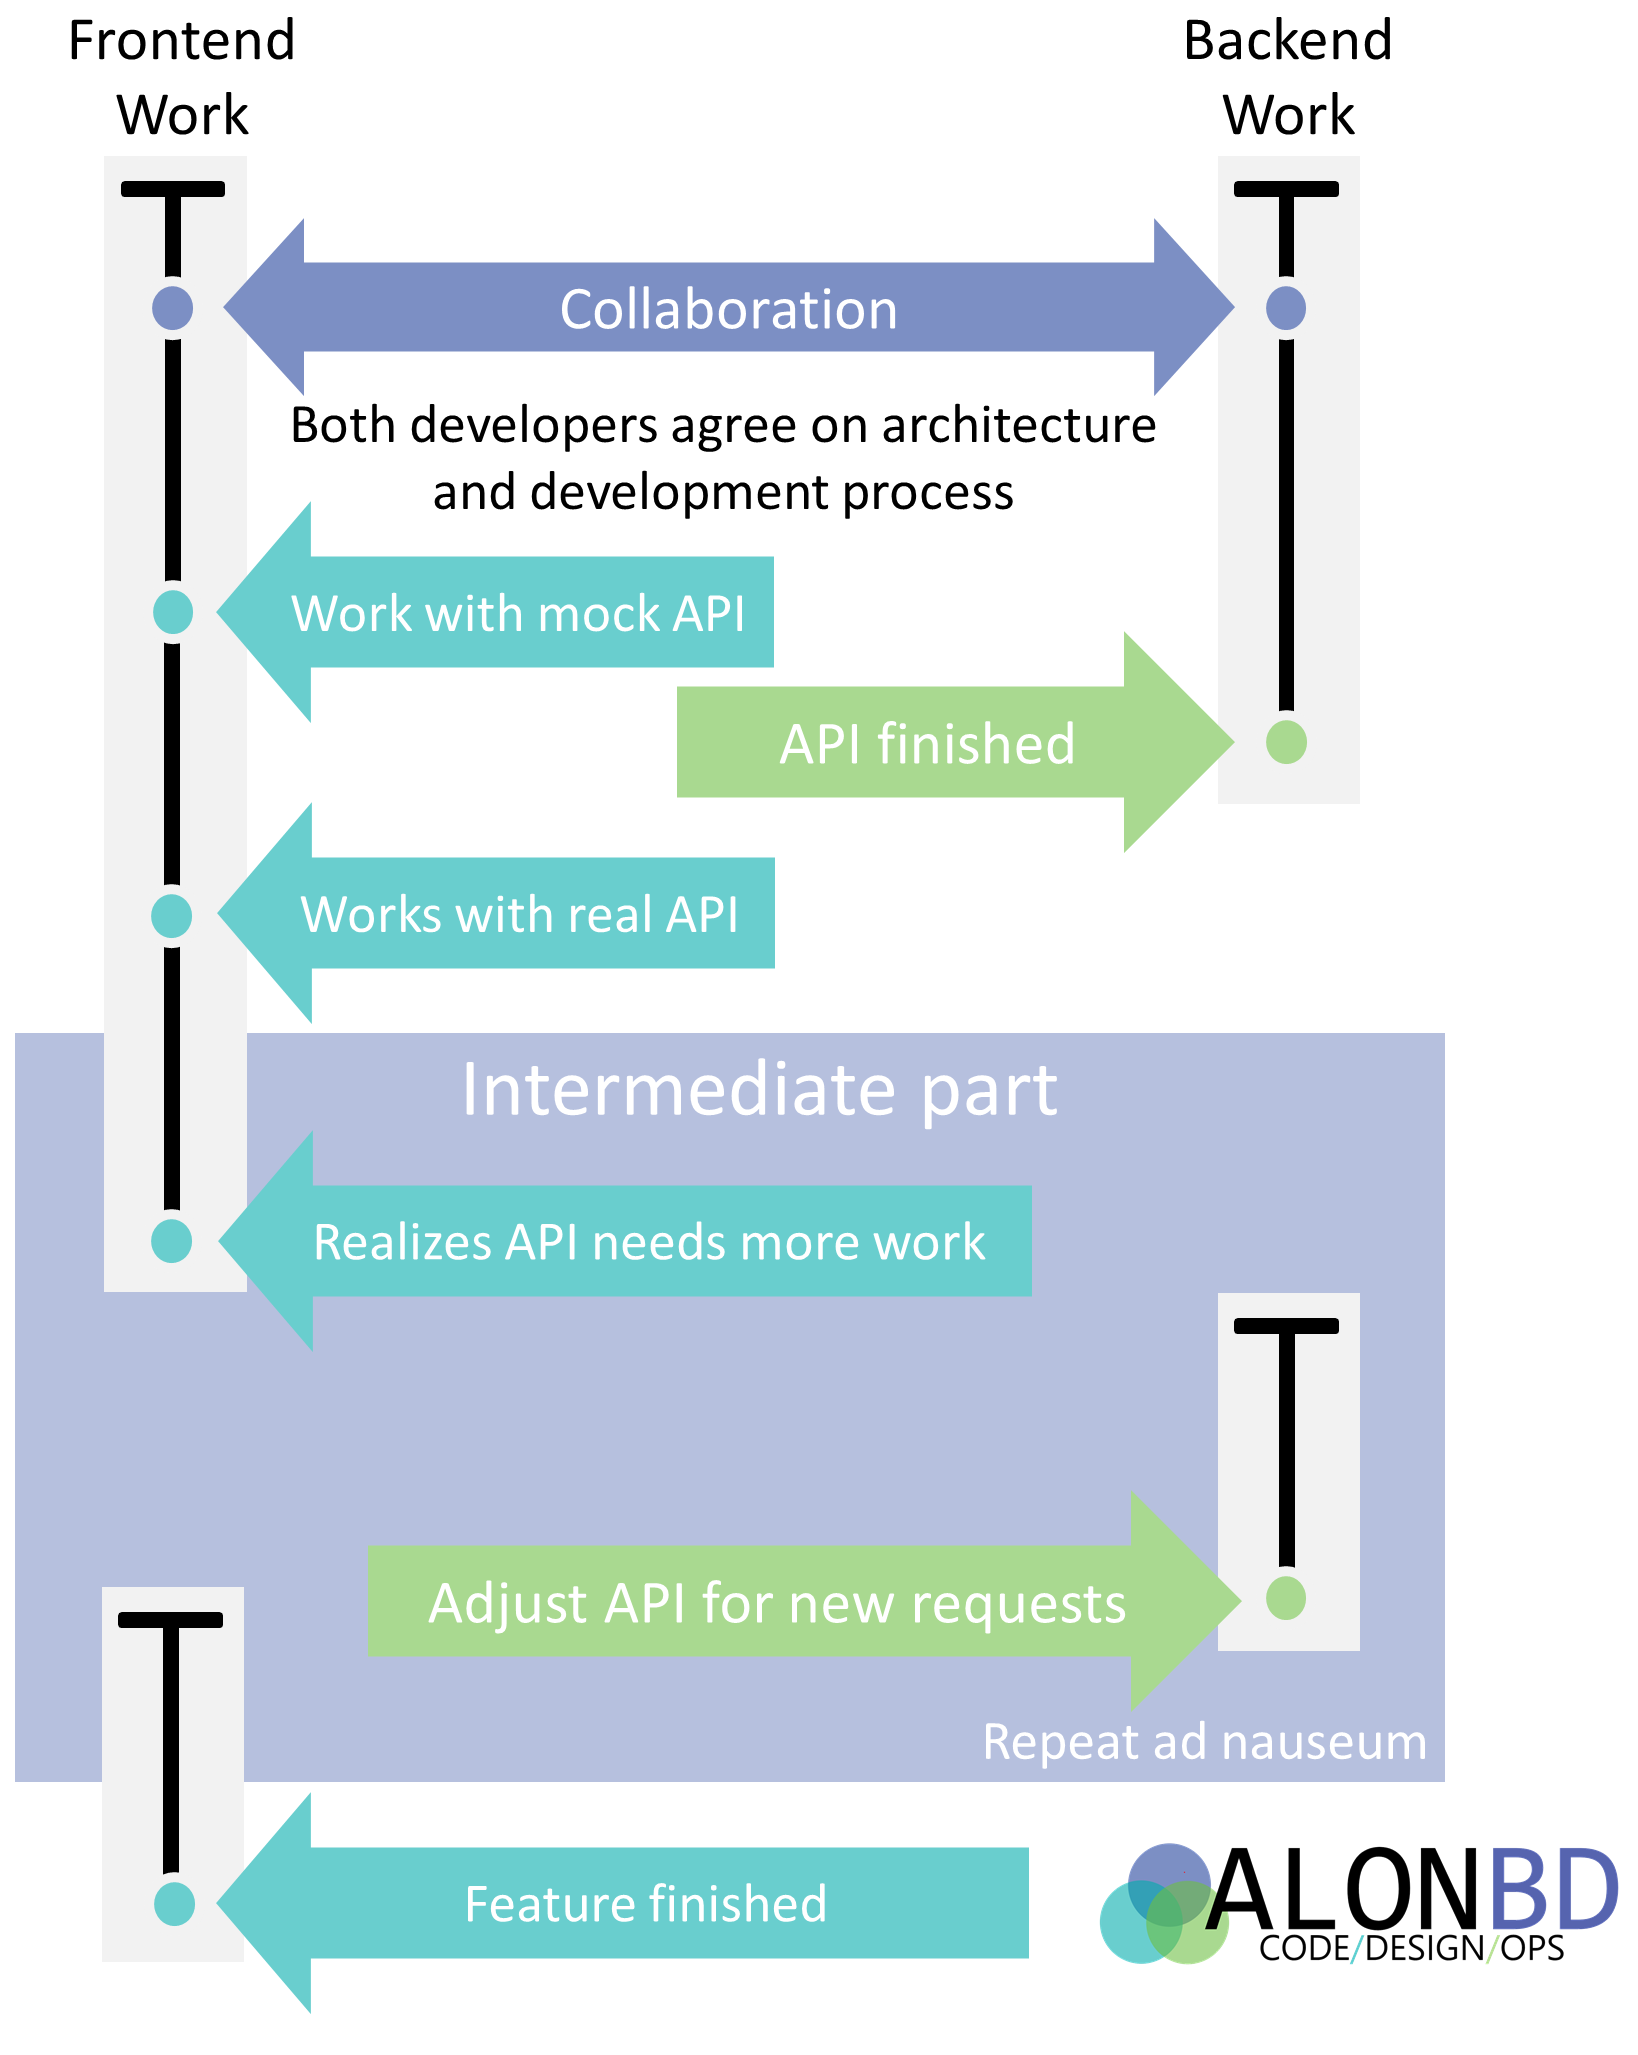
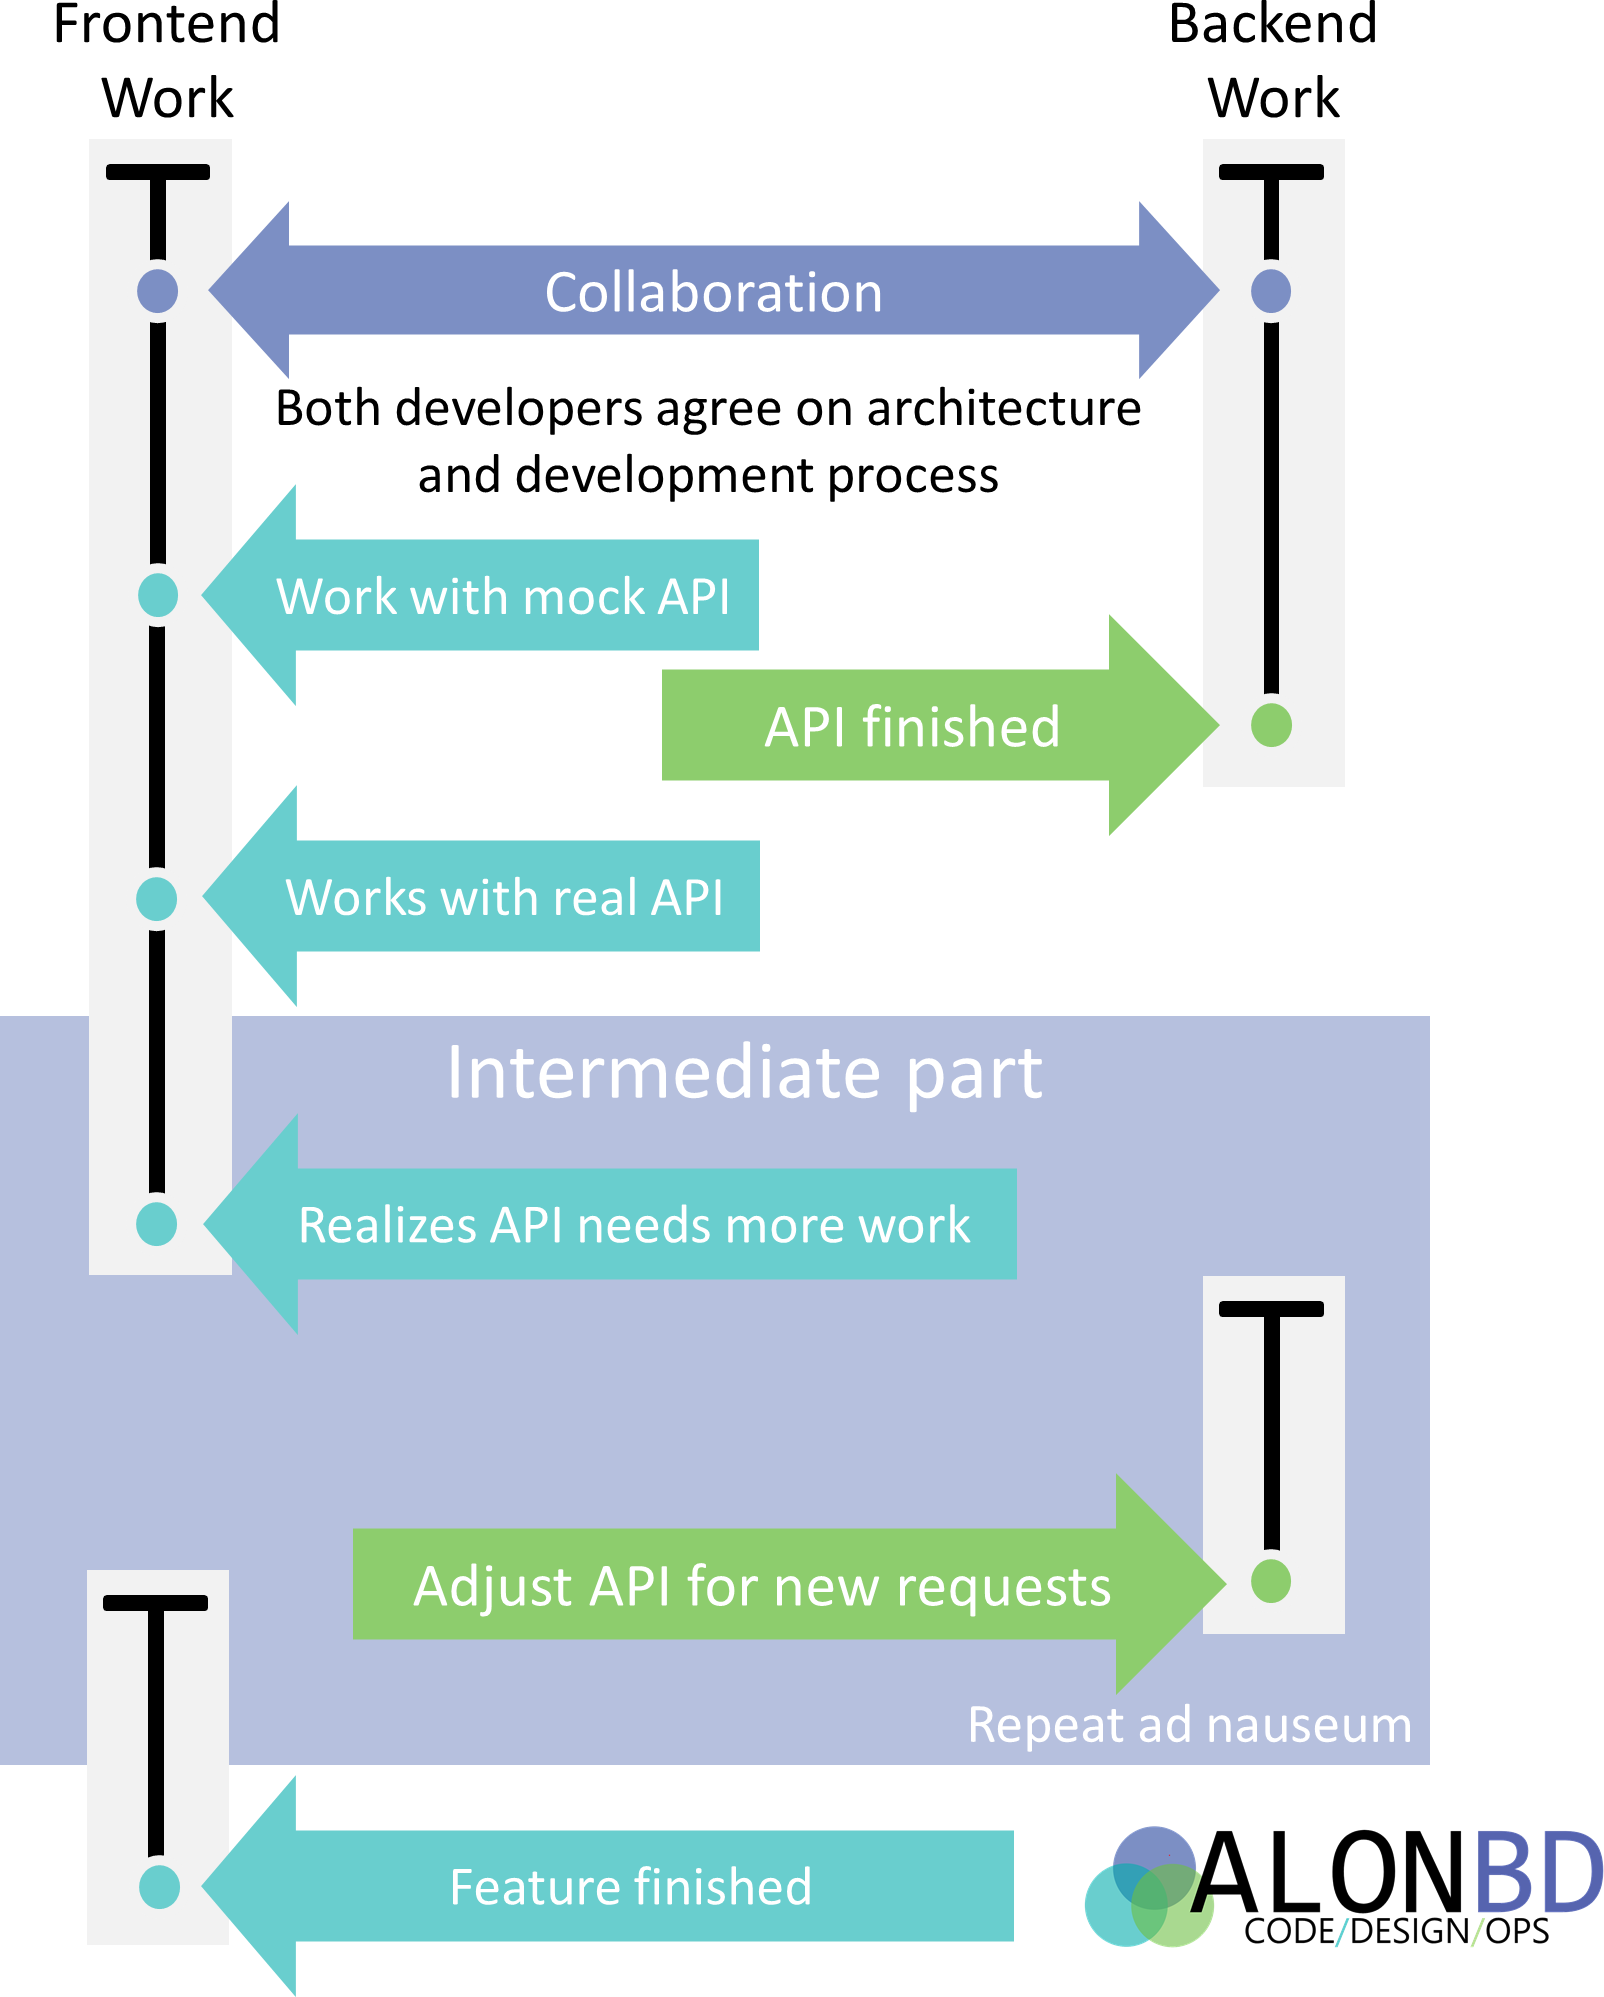
first iteration for fullstack article

Changed region(s): [[0.0, 0.0, 1.0, 1.0], [0.1559, 0.1242, 0.717, 0.2484], [0.1559, 0.0931, 0.187, 0.1242]]

diff --git a/.vuepress/theme/components/Footer.vue b/.vuepress/theme/components/Footer.vue
@@ -6,10 +6,10 @@
                     <img class="avatar" src="/images/avatar.jpg" alt="Alon Bar David"></img>
                 </div>
                 <div >
-                    <h2>HELLO!</h2>
+                    <h2>Hi!</h2>
                     <p>
                         My name is Alon Bar David.<br/>
-                        I'm an independent consultant, web developer, software development enthusiast
+                        I'm an independent consultant, fullstack architect, software development enthusiast
                         and proud father of two.
                     </p>
                 </div>

diff --git a/blog/what-it-means-to-be-fullstack.md b/blog/what-it-means-to-be-fullstack.md
@@ -1,25 +1,31 @@
 ---
 title: What it means to be a Full-Stack developer
-description: 
+description: Why you can also do fullstack development and what are the benefits 
 tags: Full-Stack,fullstack
-createdAt: 2019-09-03
+createdAt: 2019-09-09
 ---
 ## What it means to be a Fullstack Developer  
+<img class="cover" src="./images/what-it-means-to-be-fullstack-cover.png"
+    alt="Tetris bricks making a stack" />
+  
+Lately when I talk about fullstack development a lot of people proclaim
+their skepticism on the subject - saying that fullstack engineers don't
+exist or that most developers, if not all, are only suitable to either
+backend or frontend work.
 
-When I tell people that I'm a fullstack developer I often get responses
-that comes down to either:    
+The criticism mostly boils down to two issues:
+
 * No one can be an expert at both frontend and backend, it's better to
-specialize (Or the less tactful - there's no such thing as fullstack)
-* You might be different, but most people are suitable for either 
-frontend or backend (Or the less tactful - web developers can't do backend)
+  specialize 
+* Most people are only suitable for either frontend or backend work.
 
-Those responses really miss the point.
+These critiques miss the entire point of what fullstack is.
 
 ### Fullstack isn't about code, it's about _ownership_
 
 Fullstack isn't about what languages you know or what technologies you
-mastered, it's about having the tools  and authority to deal with a bug
- or a feature from start to finish. 
+mastered it's about having the tools  and authority to deal with a task
+from start to finish and getting rid of obstructions. 
    
 Splitting a single task into different responsibilities and handing 
 them to different people creates unnecessary detachment, adds superfluous 
@@ -35,21 +41,21 @@ The timeline for development of such a feature often looks like this:
     src="./images/what-it-means-to-be-fullstack-timeline.png" 
     style="width:80%;margin-left: auto;margin-right: auto;display: block;" />
 
-When scope changes or new knowledge about the task comes to light and 
-changes need to be made one developer becomes a bottleneck for the 
-other - preventing continuous work, adding pressure to each side,
-resulting in multiple painful context switches and sometimes lead
-to resentment and conflict.
+When scope changes or new knowledge about the task comes to light 
+adjustments need to be made to the original architecture and one 
+developer becomes a bottleneck for the other - preventing continuous
+work, adding pressure to each side and causing painful context switches
+that can sometimes lead to resentment and conflict.
 
-Because most work is sequential in nature (in this case the frontend
-requires the api to work) until a prerequisite feature is complete 
-one of the developers must wait or rely on workarounds (in this case
-using a mock api).
+Since most work is sequential in nature (in the illustrated example the
+frontend dev requires the api to work) until a prerequisite task is done
+one of the developers must wait or rely on workarounds (in the 
+illustrated case - using a mock api).
  
-And above all many times a difficult problem in one layer has a simple
-solution in a different layer - when a developer is just frontend or 
-just backend, they start seeing solutions to business issues only
-in their own domain.
+And above all - many times a difficult problem in one layer has a simple
+solution in a different layer and when a developer is just frontend or 
+just backend they often become blind to solutions to business issues 
+from outside their own domain.
 
 ### Advantages of doing fullstack development
 
@@ -68,12 +74,12 @@ management easier and provides a sense of responsibility.
 ### Anyone can do Full-Stack
 
 To answer the criticism that not everyone can do fullstack, I'd like to
-point out that what we no consider frontend was backend a few years 
+point out that what we consider frontend was backend a few years 
 ago, especially the hard parts - routing, state management, caching, 
-even business logic is now often part of the frontend.   
+even business logic is now done routinely on the frontend.   
 
 The majority of frontend issues don't require detailed knowledge of 
-design language, ui performance or browser compatibilities - it's usually
+design languages, ui performance or browser compatibilities - it's usually
 just adding a few divs and changing some css values (assuming your client
 is web-based).   
 
@@ -82,29 +88,28 @@ of concurrence models, bytecode manipulation or ORM internals - it's
 usually just adding a new field to the database or api model.
 
 Being fullstack doesn't mean being an expert in all things, it doesn't
-mean doing everything on your own - Owning and developing a feature in
+mean doing everything on your own - owning and developing a feature in
 an area you are less strong at doesn't mean you can't get help, you 
 should definitely ask for guidance and instructions from those who
-are more experienced and specialize in an area.    
+are more experienced and specialize in that area.    
 
 ### You can still specialize while doing Full-Stack
 
 Being fullstack doesn't mean you can't specialize or become an expert
 on a topic.    
-More than that even saying that one can't master both frontend and
+Frankly saying that one can't master both frontend and
 backend implies that if you concentrate on just one layer you can 
 master it - which is absurd, there are so many areas in frontend
-and backend that it's impossible for anyone to be an expert in all
-aspects of development in it.
+and backend that it is impossible for anyone to be an expert in all
+aspects of development in a layer.
 
-You can be a fullstack and be an expert in using graphing libraries.     
-you can be fullstack and be an expert in using ORMs.
+You can be fullstack and be an expert in using graphing libraries.     
+You can be fullstack and be an expert in using ORMs.
 
 Just like any other developer a fullstack will eventually develop 
 expertise in certain areas and it's natural to send the more complex
 tasks in those areas to developers who specialize in them.
 
-So to recap:
 > _Don't split your developers into layers_
 
 ### Is fullstack always applicable
@@ -120,12 +125,13 @@ probably gain a lot by moving to a more fullstack oriented process.
 
 #### Footnotes
 
-Since this is probably going to be a loaded issue for people, let me
-head off a few critiques
+Since this article is probably going to be a contentious with a lot of
+people I'll try and head off a few critiques:
 
 * While a lot of the examples in this article focuses on frontend, the
 benefits of fullstack development doesn't just make frontend work easier,
-backend development also suffer from the same issues and gain the same advantages.
+backend development also suffer from the same issues and enjoy
+the same benefits.
 * In fact fullstack development isn't really about just backend and 
 frontend, it's a change in process and applies to the entire stack - a 
 backend developer shouldn't need to wait for a dba to approve an sql 
